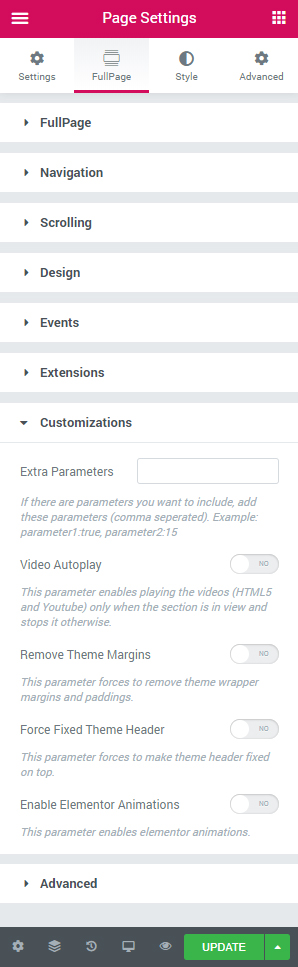
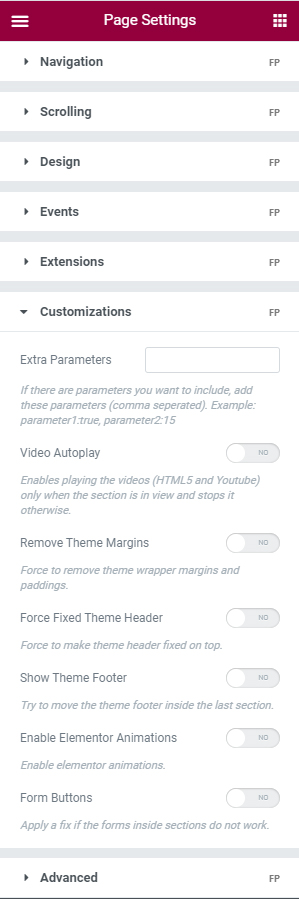
Elementor documentation update.

Changed region(s): [[0.0, 0.0, 1.0, 1.0]]

diff --git a/docs/fullpage-for-elementor.md b/docs/fullpage-for-elementor.md
@@ -115,13 +115,15 @@ This plugin simplifies creation of fullscreen scrolling websites with WordPress 
 
 The license key you obtained by buying the plugin can be entered at WordPress admin panel `FullPage for Elementor` settings under Elementor menu.
 
+![License Settings](assets/fullpage-for-elementor/settings.jpg "License Settings")
+
 After entering the license, press on *Save Changes* button. This will activate the license.
 
-![License Settings](assets/fullpage-for-elementor/settings.jpg "License Settings")
+![Activated License Settings](assets/fullpage-for-elementor/settings-activated.jpg "Activated License Settings")
 
 You can use the plugin without any limitations once your license is activated.
 
-You can click on *Deactivate* button to deactivate your license to move your license to another web site.
+You can click on *Deactivate* button to deactivate your license on the current domain and move your license to another domain.
 
 ## Enable FullPage
 
@@ -179,13 +181,19 @@ This would be an example of a link with an anchor:
 `http://yoursite.com/#secondPage`
 (which is the URL you will see once you access to that section manually) Notice the last part of the URL ends in `#secondPage`, if FullPage Anchor option for that section is set to `secondPage`.
 
+*Note: FullPage Anchor should NOT be the same with any anchor ID on the page.*
+
 #### Navigation Tooltip
 
 This option defines the tooltips to show for the navigation circles in case they are being used.
 
 #### Disable Scroll Overflow
 
-This option is used to prevent fullpage.js from creating the scrollbar in certain sections or slides. When Scroll Overflow is enabled but the scrollbars in this section is not needed, enable this option.
+This option is used to prevent `fullpage.js` from creating the scrollbar in certain sections or slides. When Scroll Overflow is enabled but the scrollbars in this section is not needed, enable this option.
+
+#### Full Height Columns
+
+This option makes the column height same with section height.
 
 #### Navigation Colors
 
@@ -216,6 +224,8 @@ Each *Inner Section* widget inside the Elementor Sections are set as FullPage Sl
 The anchor at the end of the URL `#secondPage/2` defines the section and slide of destination respectively. In the previous URL, the section of destination will be the one defined with the anchor secondPage and the slide will be the 2nd slide, as we are using the index 2 for it. (the fist slide of a section has index 0, as technically it is a section).
 
 If a custom anchor is needed for a slide instead of its index, you can enter the new slide anchor to *Slide Anchor* option.
+
+For Full Height Columns, see [this section](#full-height-columns).
 
 For Slide Navigation Colors, see [this section](#navigation-colors).
 
@@ -480,9 +490,26 @@ This option tries to remove the page wrapper margins, so the page can be full wi
 
 ### Force Fixed Theme Header
 
-This option tries to make the header fixed at the top, and arranges the section content accordingly. **Theme Header Selector** option should be given as a JavaScript selector. **Theme Header Padding** option sets the section header paddings with respect to header height.
+This option tries to make the header fixed at the top, and arranges the section content accordingly.
+**Theme Header Selector** option should be given as a JavaScript selector.
+**Is Header a Section** option should be enabled if your header element is inside a section
+**Theme Header Padding** option sets the section header paddings with respect to header height.
 
 If you are designing your theme header using Elementor sections, or added your header inside a section, enable **Is Header a Section?** option.
+
+### Show Theme Footer
+
+This option moves the footer inside the last auto-height section.
+**Theme Footer Selector** option should be given as a JavaScript selector.
+
+### Enable Elementor Animations
+
+This option enables Elementor animations if scrollbars are disabled.
+**Reset Elementor Animations** option can be enabled if animation reset is wanted when section/slide change.
+
+### Form Buttons
+
+This option applies a fix if there is a form inside the sections.
 
 ## Advanced
 
@@ -564,3 +591,7 @@ When the scrollbars are disabled and your content is greater than the screen hei
 #### How do I remove anchors from URL?
 
 If you want to remove the anchors (your-domaion.com/`#anchor`), you can enable [Lock Anchors](#lock-anchors "Lock Anchors") or [Disable Anchors](#disable-anchors "Disable Anchors") option. Enabling one of these two options will remove the anchor part from the URL.
+
+### Why my scroll based animations or events don't work?
+
+Some of the WordPress plugins or Javascript libraries that depend on scrolling mechanism such as sticky menus, animations etc. might not work if scroll bar is disabled using the plugin. Please enable the [Scroll Bar](#scroll-bar "Scroll Bar") option to enable scroll based animations.

diff --git a/docs/fullpage-for-gutenberg.md b/docs/fullpage-for-gutenberg.md
@@ -631,3 +631,7 @@ Sometimes with the update of Gutenberg, WordPress or other third party plugins, 
 #### How do I remove anchors from URL?
 
 If you want to remove the anchors (your-domaion.com/`#anchor`), you can enable [Lock Anchors](#lock-anchors "Lock Anchors") or [Disable Anchors](#disable-anchors "Disable Anchors") option. Enabling one of these two options will remove the anchor part from the URL.
+
+### Why my scroll based animations or events don't work?
+
+Some of the WordPress plugins or Javascript libraries that depend on scrolling mechanism such as sticky menus, animations etc. might not work if scroll bar is disabled using the plugin. Please enable the [Scroll Bar](#scroll-bar "Scroll Bar") option to enable scroll based animations.
